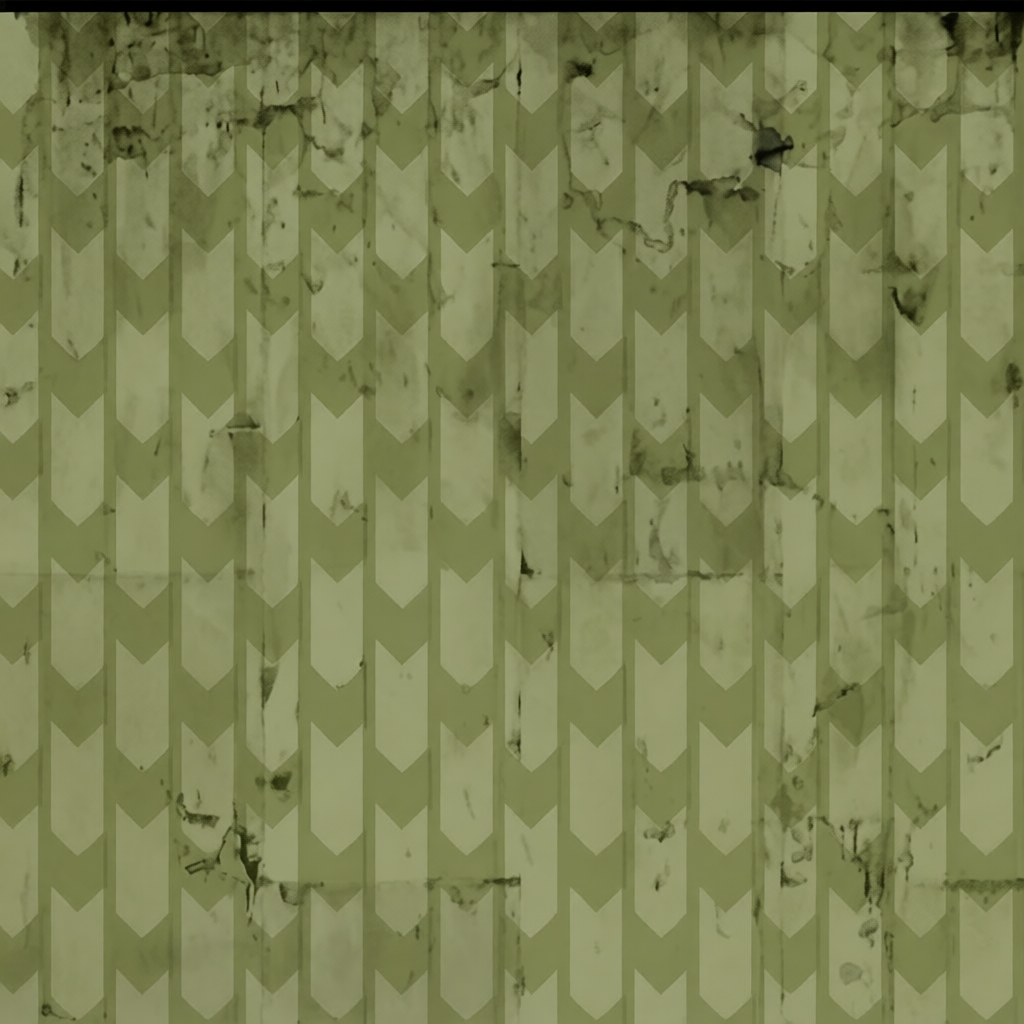
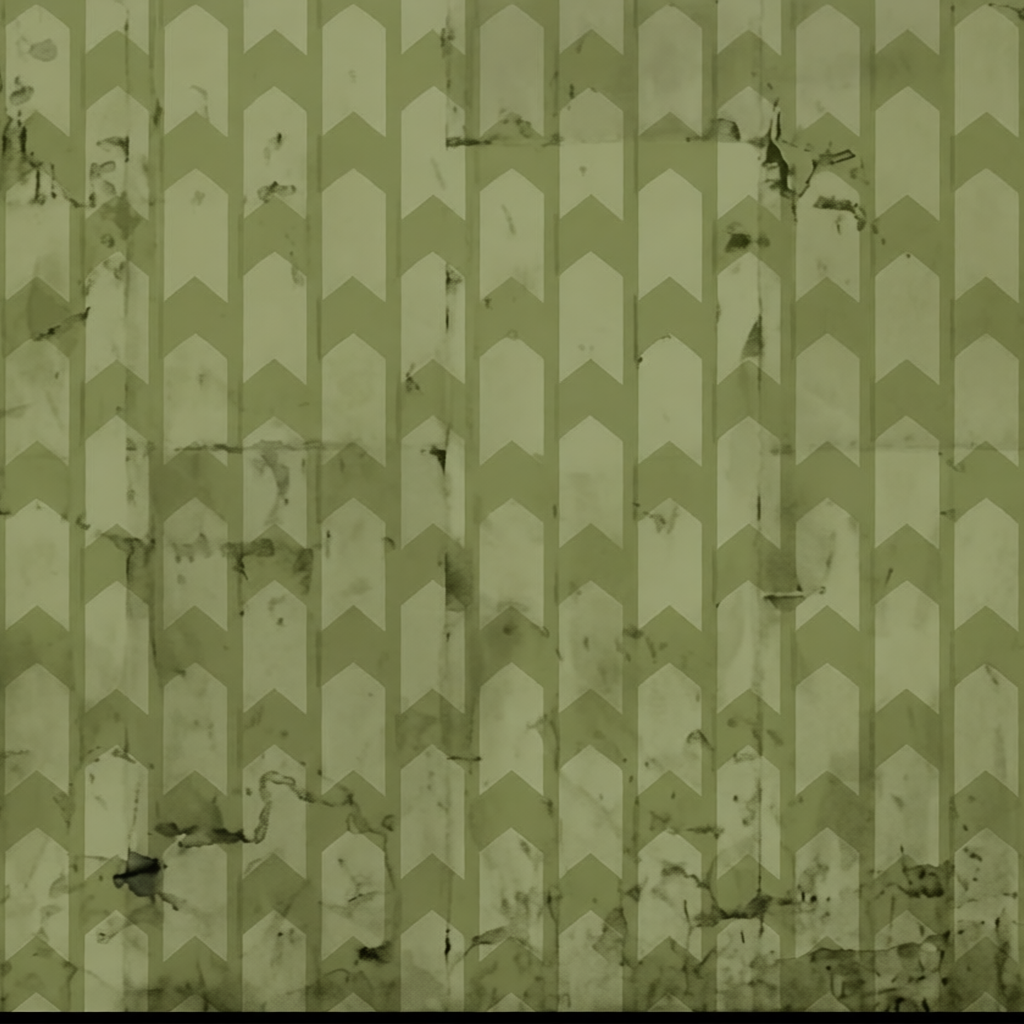
adjust colors

diff --git a/genUDMFMap.py b/genUDMFMap.py
@@ -13,7 +13,7 @@ class Line:
 
 MAZE_W = 10
 TEXTURE_W = 128
-LIGHT_LEVEL = 300
+LIGHT_LEVEL = 250
 BOX_GAP = 1
 
 def save(lines: list[list[Line]], box: list[Line]):
